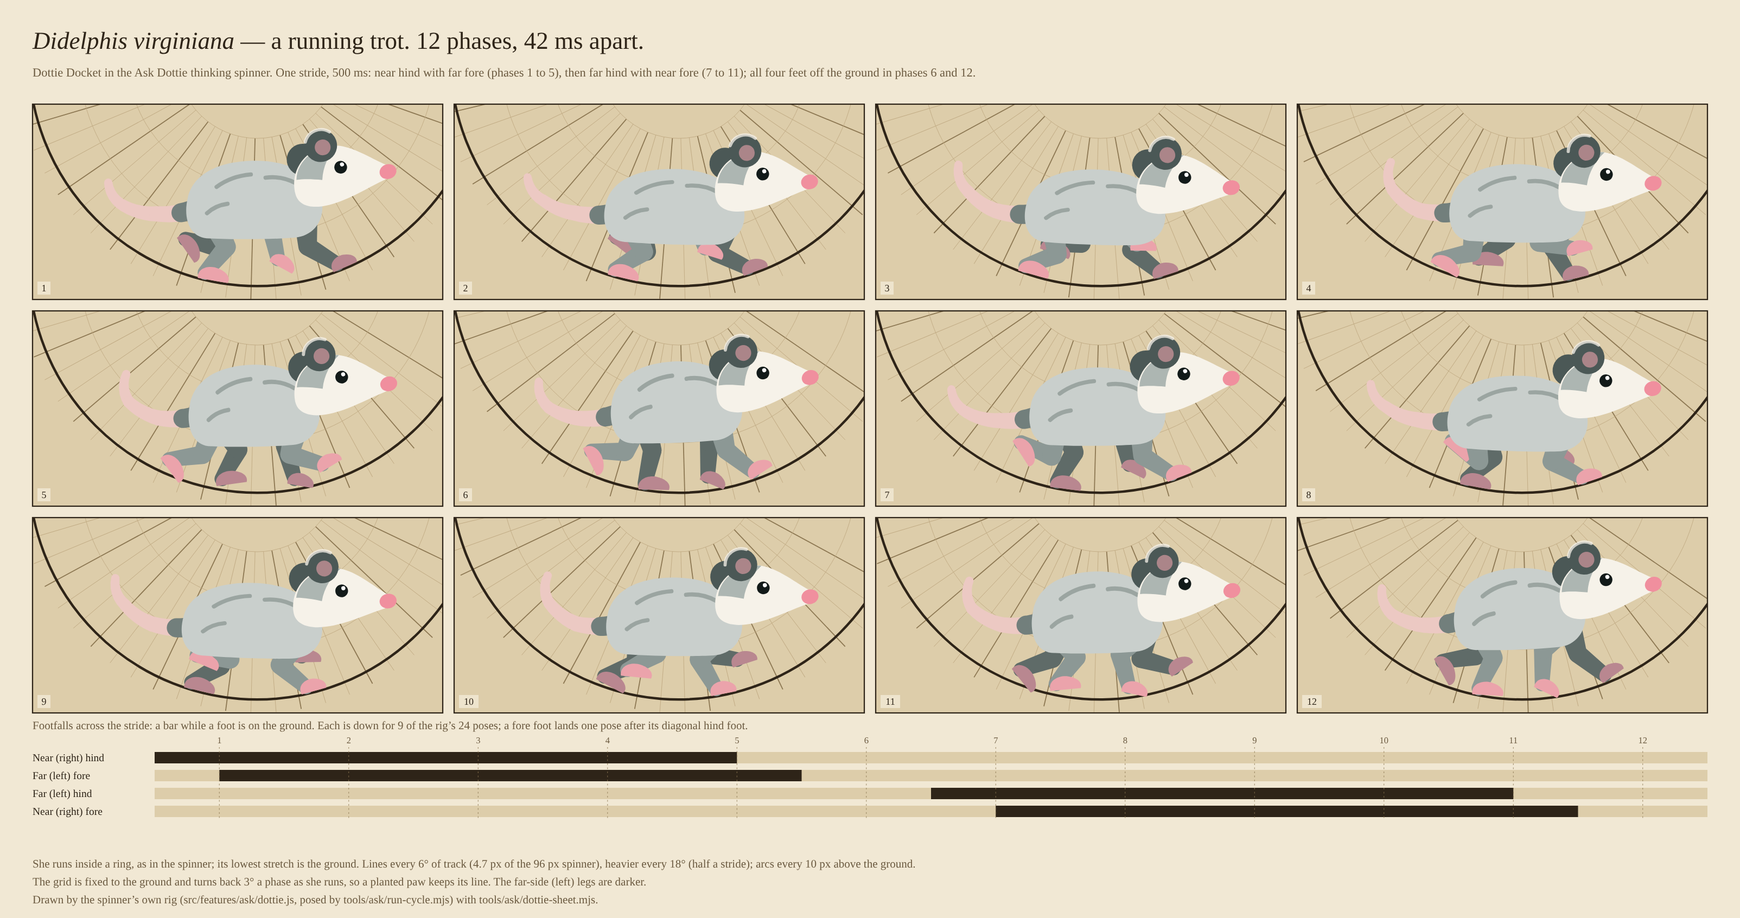
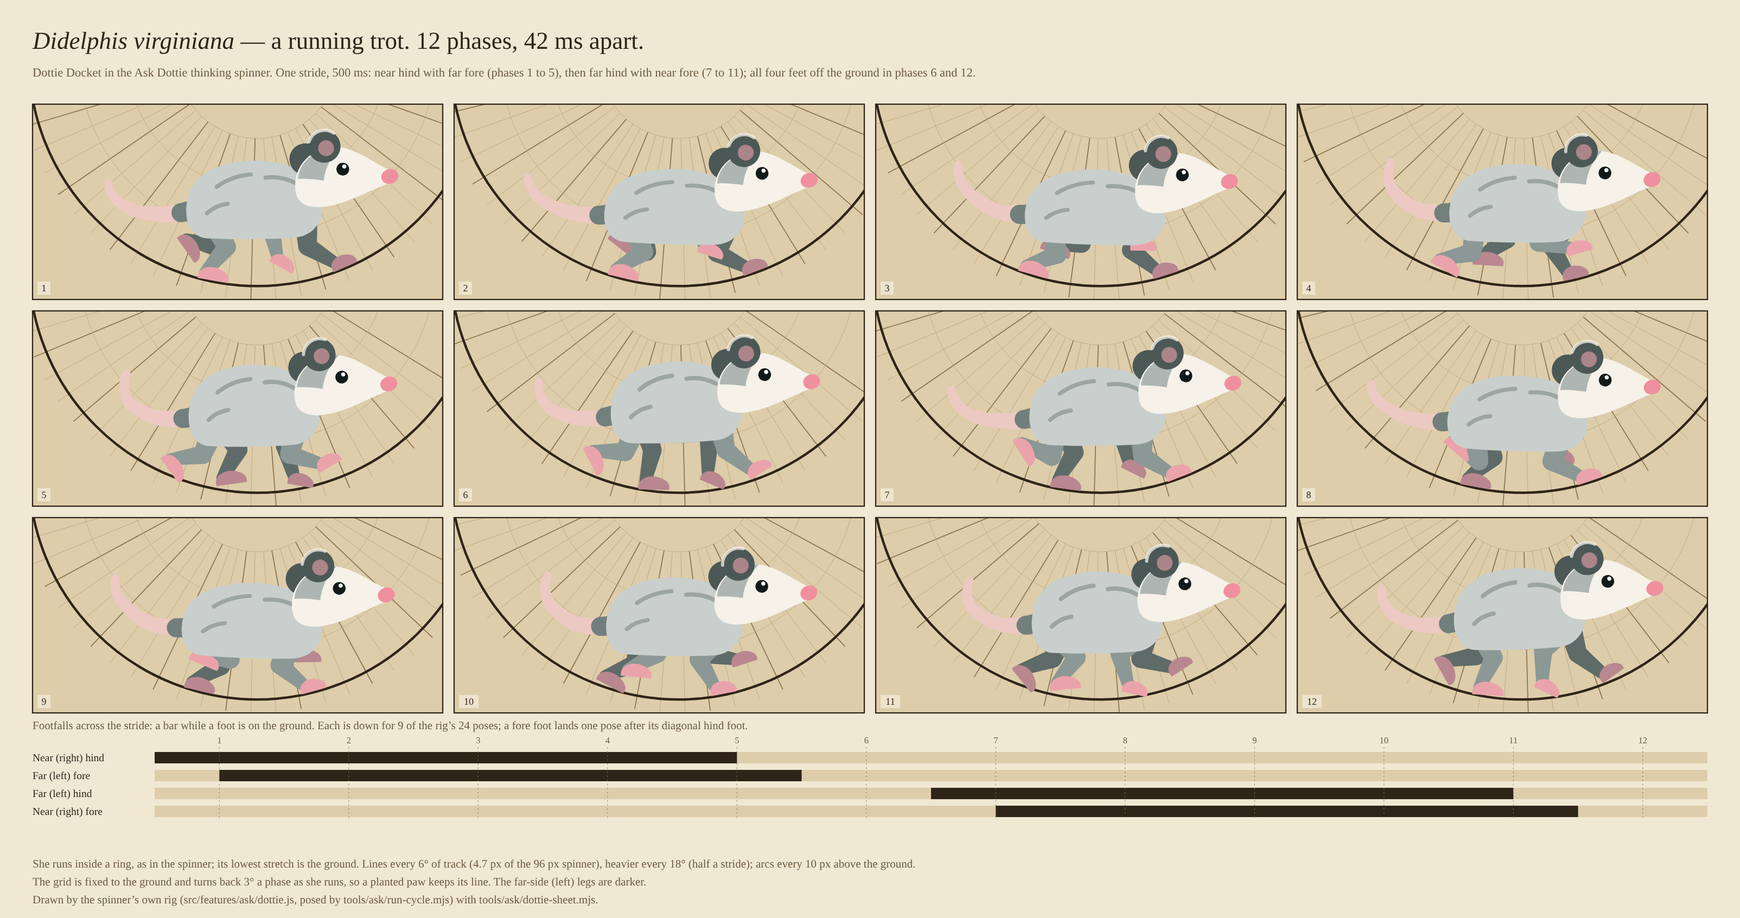
Dottie spinner: a steady head, tapered legs, a tool that films the run, and the mascot notes
The nod now works against the bob, so the nose and eye hold their line. Lower legs
taper to the paw. tools/ask/run-film.mjs takes the 16-frame filmstrip and the real-size
pictures from the browser's own animation; it and the check share one bare page
(spinner-page.mjs). docs/ask-mascot/README.md describes the rig, the generator and
the checks; the running sheet is redrawn.

Claude-Session: https://claude.ai/code/session_014fYW9uUa7KNyY2jpcwk42K

diff --git a/src/features/ask/dottie.js b/src/features/ask/dottie.js
@@ -260,24 +260,24 @@
     ms: 500, keys: 24, strides: 10, ground: 46.5, size: 1,
     feet: {fh:[12,9],ff:[1,9],nh:[0,9],nf:[13,9]},
     parts: [
-      { id: 'fhLower', box: [-3,-9.6,6,12.2], art: '<path d="M-1.5 0.09A1.5 1.5 0 0 0 1.5 0.09L1.9 -6.69A1.9 1.9 0 1 0 -1.9 -6.69Z" fill="{legFar}"/>', still: [12.45,45.2,25.92], k: [22.107,40.948,70.72,21.393,39.907,83.33,20.367,39.177,93.07,19.032,38.882,96.5,17.406,39.053,89.32,15.571,39.643,73.17,13.723,40.649,57.02,11.97,41.918,43.48,10.448,43.243,31.34,9.32,44.405,19.86,8.719,45.063,10.21,8.765,45.22,3.84,9.7,45.2,9.18,11.2,45.2,19.39,12.7,45.2,28.42,14.2,45.2,35.99,15.7,45.2,41.36,17.2,45.2,43.84,18.65,45.102,44.77,19.812,44.607,48.01,20.665,44.015,50.91,21.755,43.76,48.98,22.535,43.18,50.24,22.547,42.126,58.54] },
+      { id: 'fhLower', box: [-3,-9.6,6,12.2], art: '<path d="M-1.19 0.12A1.2 1.2 0 0 0 1.19 0.12L1.89 -6.6A1.9 1.9 0 1 0 -1.89 -6.6Z" fill="{legFar}"/>', still: [12.45,45.2,25.92], k: [22.107,40.948,70.72,21.393,39.907,83.33,20.367,39.177,93.07,19.032,38.882,96.5,17.406,39.053,89.32,15.571,39.643,73.17,13.723,40.649,57.02,11.97,41.918,43.48,10.448,43.243,31.34,9.32,44.405,19.86,8.719,45.063,10.21,8.765,45.22,3.84,9.7,45.2,9.18,11.2,45.2,19.39,12.7,45.2,28.42,14.2,45.2,35.99,15.7,45.2,41.36,17.2,45.2,43.84,18.65,45.102,44.77,19.812,44.607,48.01,20.665,44.015,50.91,21.755,43.76,48.98,22.535,43.18,50.24,22.547,42.126,58.54] },
       { id: 'fhPaw', box: [-6,-4.2,9.2,5.2], art: '<path d="M-4.3 0C-4.8-2.2-2.2-3.1-.4-2.6 1.3-2.2 2.4-1.2 1.9 0Z" fill="{pawFar}"/>', still: [8.645,46.5,0], k: [20.151,43.925,40,19.08,42.767,35.87,17.561,41.828,29.59,15.723,41.251,22.3,13.692,41.107,15.16,11.597,41.395,8.9,9.567,42.052,2.13,7.728,42.964,-4.5,6.209,43.989,-9.89,5.139,44.976,-13,4.644,45.788,-10.34,4.853,46.317,-3.73,5.895,46.5,0,7.395,46.5,0,8.895,46.5,0,10.395,46.5,0,11.895,46.5,0,13.395,46.5,0,14.895,46.5,1.82,16.395,46.5,11.54,17.895,46.5,25,19.395,46.5,32,20.436,46.059,36.44,20.645,45.104,40] },
       { id: 'fhUpper', box: [-3.6,-3.6,7.2,12.9], art: '<path d="M-2.39 0.19A2.4 2.4 0 1 1 2.39 0.19L1.89 6.35A1.9 1.9 0 0 1 -1.89 6.35Z" fill="{legFar}"/>', still: [13.134,33.886,-33.68], k: [12.776,33.032,-0.54,13.003,33.561,-9.04,13.289,34.164,-17.52,13.573,34.664,-28.45,13.793,34.886,-44.3,13.851,34.763,-60.1,13.692,34.474,-66.46,13.399,34.196,-64.59,13.011,33.876,-57.14,12.597,33.528,-46.26,12.34,33.188,-35.79,12.514,32.88,-28.6,12.776,33.032,-30.52,13.003,33.561,-34.1,13.289,34.164,-35.94,13.573,34.664,-35.06,13.793,34.886,-30.6,13.851,34.763,-22.25,13.692,34.474,-12.01,13.399,34.196,-5.07,13.011,33.876,0.56,12.597,33.528,11.06,12.34,33.188,16.19,12.514,32.88,9.37] },
-      { id: 'ffLower', box: [-3,-9.8,6,12.4], art: '<path d="M-1.5 0.09A1.5 1.5 0 0 0 1.5 0.09L1.9 -6.79A1.9 1.9 0 1 0 -1.9 -6.79Z" fill="{legFar}"/>', still: [-9.796,45.209,-3.64], k: [-21.98,45.169,-29.85,-21.046,45.209,-37.86,-19.546,45.209,-43.57,-18.046,45.209,-45.81,-16.546,45.209,-43.23,-15.046,45.209,-36.35,-13.546,45.209,-27.77,-12.091,45.143,-19.3,-10.869,44.813,-12.26,-9.858,44.42,-5.98,-8.653,44.25,3.97,-7.818,43.673,10.34,-7.762,42.574,2.58,-8.226,41.304,-5.38,-9.05,40.131,-9.26,-10.22,39.252,-10.31,-11.686,38.809,-14.3,-13.397,38.858,-31.12,-15.263,39.375,-53.47,-17.106,40.339,-63.66,-18.829,41.596,-62.11,-20.315,42.937,-54.02,-21.413,44.138,-42.14,-22.014,44.89,-29.73] },
+      { id: 'ffLower', box: [-3,-9.8,6,12.4], art: '<path d="M-1.19 0.12A1.2 1.2 0 0 0 1.19 0.12L1.89 -6.71A1.9 1.9 0 1 0 -1.89 -6.71Z" fill="{legFar}"/>', still: [-9.796,45.209,-3.64], k: [-21.98,45.169,-29.85,-21.046,45.209,-37.86,-19.546,45.209,-43.57,-18.046,45.209,-45.81,-16.546,45.209,-43.23,-15.046,45.209,-36.35,-13.546,45.209,-27.77,-12.091,45.143,-19.3,-10.869,44.813,-12.26,-9.858,44.42,-5.98,-8.653,44.25,3.97,-7.818,43.673,10.34,-7.762,42.574,2.58,-8.226,41.304,-5.38,-9.05,40.131,-9.26,-10.22,39.252,-10.31,-11.686,38.809,-14.3,-13.397,38.858,-31.12,-15.263,39.375,-53.47,-17.106,40.339,-63.66,-18.829,41.596,-62.11,-20.315,42.937,-54.02,-21.413,44.138,-42.14,-22.014,44.89,-29.73] },
       { id: 'ffPaw', box: [-5.2,-4,8.2,5], art: '<path d="M-3.5 0C-4-2.1-1.8-2.9-.3-2.5 1.2-2.1 2.2-1.1 1.7 0Z" fill="{pawFar}"/>', still: [-12.713,46.5,0], k: [-25.004,46.304,-3.73,-23.963,46.5,0,-22.463,46.5,0,-20.963,46.5,0,-19.463,46.5,0,-17.963,46.5,0,-16.463,46.5,0,-14.963,46.5,1.59,-13.463,46.5,10.1,-11.963,46.5,21.88,-10.463,46.5,28,-9.421,46.026,32.33,-9.212,45,35.76,-9.707,43.735,36,-10.777,42.49,32.62,-12.296,41.482,27.36,-14.135,40.862,21.14,-16.165,40.707,14.87,-18.26,41.017,9.07,-20.291,41.723,2.42,-22.129,42.702,-4.28,-23.648,43.803,-9.82,-24.719,44.863,-13,-25.213,45.735,-10.34] },
       { id: 'ffUpper', box: [-3.6,-3.6,7.2,12.5], art: '<path d="M-2.39 0.21A2.4 2.4 0 1 1 2.39 0.21L1.89 5.96A1.9 1.9 0 0 1 -1.89 5.96Z" fill="{legFar}"/>', still: [-16.24,34.684,54.75], k: [-17.195,33.537,1.53,-16.825,34.312,12.92,-16.352,35.182,25.62,-15.926,35.891,36.49,-15.697,36.174,45.4,-15.648,35.954,50.97,-15.668,35.505,53.47,-15.769,35.084,55.06,-15.972,34.602,56.66,-16.21,34.097,57.09,-16.544,33.621,53.41,-17.11,33.248,54.69,-17.195,33.537,72.82,-16.825,34.312,93.57,-16.352,35.182,113.07,-15.926,35.891,129.79,-15.697,36.174,137.11,-15.648,35.954,123.11,-15.668,35.505,92.74,-15.769,35.084,66.33,-15.972,34.602,46.09,-16.21,34.097,28.71,-16.544,33.621,12.95,-17.11,33.248,0.83] },
       { id: 'tail3', box: [-7.5,-6.5,10,9], art: '<path d="M0,-1.2L-0.8,-1.21L-1.6,-1.36L-2.38,-1.64L-3.1,-2.05L-3.75,-2.59L-4.31,-3.24A0.85 0.85 0 0 0 -5.75,-2.34L-5.11,-1.38L-4.31,-0.54L-3.37,0.15L-2.32,0.69L-1.19,1.04L0,1.2A1.2 1.2 0 0 0 0,-1.2Z" fill="{tail}"/>', still: [43.326,39.368,-3.33], k: [41.949,40.307,-9.44,42.002,40.802,-14.79,42.589,40.843,-17.7,43.507,40.299,-16.5,44.359,39.407,-12.15,44.833,38.494,-3.13,44.778,37.928,6.43,44.36,37.869,13.19,43.764,38.121,15.49,43.049,38.5,12.79,42.409,38.951,6.17,42.175,39.57,-2.32,41.949,40.307,-9.44,42.002,40.802,-14.79,42.589,40.843,-17.7,43.507,40.299,-16.5,44.359,39.407,-12.15,44.833,38.494,-3.13,44.778,37.928,6.43,44.36,37.869,13.19,43.764,38.121,15.49,43.049,38.5,12.79,42.409,38.951,6.17,42.175,39.57,-2.32] },
       { id: 'tail2', box: [-9.5,-6,12.5,8.5], art: '<path d="M0,-1.55L-1.04,-1.54L-2.07,-1.61L-3.1,-1.78L-4.12,-2.04L-5.12,-2.39L-6.08,-2.83A1.2 1.2 0 0 0 -7.28,-0.75L-6.18,-0.11L-5.02,0.43L-3.82,0.87L-2.57,1.21L-1.3,1.44L0,1.55A1.55 1.55 0 0 0 0,-1.55Z" fill="{tail}"/>', still: [33.309,37.768,-23.31], k: [32.534,37.664,-32.67,32.775,38.019,-34.01,33.293,38.22,-32.55,33.839,38.283,-27.04,34.284,38.191,-20.04,34.477,37.954,-14.28,34.288,37.741,-11.3,33.849,37.638,-11.65,33.305,37.509,-14.83,32.723,37.36,-19.28,32.297,37.286,-23.81,32.395,37.348,-28.76,32.534,37.664,-32.67,32.775,38.019,-34.01,33.293,38.22,-32.55,33.839,38.283,-27.04,34.284,38.191,-20.04,34.477,37.954,-14.28,34.288,37.741,-11.3,33.849,37.638,-11.65,33.305,37.509,-14.83,32.723,37.36,-19.28,32.297,37.286,-23.81,32.395,37.348,-28.76] },
       { id: 'tail1', box: [-10.5,-6,14,9], art: '<path d="M0,-1.9L-1.14,-1.88L-2.28,-1.94L-3.41,-2.08L-4.54,-2.3L-5.66,-2.61L-6.75,-2.98A1.55 1.55 0 0 0 -8.01,-0.15L-6.76,0.42L-5.46,0.9L-4.13,1.29L-2.77,1.59L-1.39,1.79L0,1.9A1.9 1.9 0 0 0 0,-1.9Z" fill="{tail}"/><path d="M0,-2L-0.39,-2L-0.77,-2L-1.16,-2.02L-1.54,-2.04L-1.93,-2.07L-2.31,-2.12A1.95 1.95 0 0 0 -2.87,1.74L-2.39,1.82L-1.92,1.87L-1.44,1.92L-0.96,1.96L-0.48,1.99L0,2A2 2 0 0 0 0,-2Z" fill="{leg}"/>', still: [22.866,33.97,-36.87], k: [22.658,33.208,-43.11,22.855,33.706,-41.77,23.102,34.271,-38.33,23.355,34.746,-34.59,23.569,34.975,-31.75,23.619,34.864,-30.63,23.419,34.557,-31.41,23.076,34.25,-33.17,22.641,33.905,-35.07,22.186,33.529,-37.1,21.951,33.204,-39.43,22.307,33.013,-41.87,22.658,33.208,-43.11,22.855,33.706,-41.77,23.102,34.271,-38.33,23.355,34.746,-34.59,23.569,34.975,-31.75,23.619,34.864,-30.63,23.419,34.557,-31.41,23.076,34.25,-33.17,22.641,33.905,-35.07,22.186,33.529,-37.1,21.951,33.204,-39.43,22.307,33.013,-41.87] },
-      { id: 'nhLower', box: [-3,-9.6,6,12.2], art: '<path d="M-1.5 0.09A1.5 1.5 0 0 0 1.5 0.09L1.9 -6.69A1.9 1.9 0 1 0 -1.9 -6.69Z" fill="{legNear}"/>', still: [22.362,45.2,47.77], k: [12.112,45.2,18.28,13.612,45.2,26.62,15.112,45.2,34.71,16.612,45.2,41.96,18.112,45.2,47.51,19.612,45.2,50.62,21.062,45.102,52.34,22.224,44.607,55.92,23.077,44.015,59.01,24.167,43.76,57.76,24.947,43.18,59.15,24.959,42.126,66.62,24.519,40.948,78.22,23.805,39.907,90.86,22.779,39.177,101.15,21.444,38.882,105.3,19.818,39.053,97.74,17.983,39.643,79.12,16.135,40.649,61.21,14.381,41.918,47.41,12.859,43.243,35.94,11.732,44.405,25.98,11.131,45.063,18.59,11.176,45.22,14.46] },
+      { id: 'nhLower', box: [-3,-9.6,6,12.2], art: '<path d="M-1.19 0.12A1.2 1.2 0 0 0 1.19 0.12L1.89 -6.6A1.9 1.9 0 1 0 -1.89 -6.6Z" fill="{legNear}"/>', still: [22.362,45.2,47.77], k: [12.112,45.2,18.28,13.612,45.2,26.62,15.112,45.2,34.71,16.612,45.2,41.96,18.112,45.2,47.51,19.612,45.2,50.62,21.062,45.102,52.34,22.224,44.607,55.92,23.077,44.015,59.01,24.167,43.76,57.76,24.947,43.18,59.15,24.959,42.126,66.62,24.519,40.948,78.22,23.805,39.907,90.86,22.779,39.177,101.15,21.444,38.882,105.3,19.818,39.053,97.74,17.983,39.643,79.12,16.135,40.649,61.21,14.381,41.918,47.41,12.859,43.243,35.94,11.732,44.405,25.98,11.131,45.063,18.59,11.176,45.22,14.46] },
       { id: 'nhPaw', box: [-6,-4.2,9.2,5.2], art: '<path d="M-4.3 0C-4.8-2.2-2.2-3.1-.4-2.6 1.3-2.2 2.4-1.2 1.9 0Z" fill="{pink}"/>', still: [18.556,46.5,0], k: [8.306,46.5,0,9.806,46.5,0,11.306,46.5,0,12.806,46.5,0,14.306,46.5,0,15.806,46.5,0,17.306,46.5,1.82,18.806,46.5,11.54,20.306,46.5,25,21.806,46.5,32,22.848,46.059,36.44,23.057,45.104,40,22.562,43.925,40,21.492,42.767,35.87,19.973,41.828,29.59,18.134,41.251,22.3,16.104,41.107,15.16,14.009,41.395,8.9,11.978,42.052,2.13,10.14,42.964,-4.5,8.621,43.989,-9.89,7.55,44.976,-13,7.056,45.788,-10.34,7.265,46.317,-3.73] },
       { id: 'nhUpper', box: [-3.6,-3.6,7.2,12.9], art: '<path d="M-2.39 0.19A2.4 2.4 0 1 1 2.39 0.19L1.89 6.35A1.9 1.9 0 0 1 -1.89 6.35Z" fill="{legNear}"/>', still: [15.356,34.74,-0.39], k: [14.993,33.916,-41.12,15.249,34.423,-42.18,15.562,35.001,-42.42,15.866,35.481,-40.46,16.095,35.698,-35.29,16.141,35.582,-26.55,15.949,35.306,-16.04,15.62,35.04,-8.38,15.195,34.734,-2.02,14.743,34.398,8.32,14.469,34.071,13.79,14.685,33.773,8.26,14.993,33.916,-0.17,15.249,34.423,-7.14,15.562,35.001,-14.31,15.866,35.481,-24.54,16.095,35.698,-41.76,16.141,35.582,-61.35,15.949,35.306,-70.33,15.62,35.04,-69.62,15.195,34.734,-63.04,14.743,34.398,-53.54,14.469,34.071,-45.38,14.685,33.773,-40.9] },
-      { id: 'nfLower', box: [-3,-9.8,6,12.4], art: '<path d="M-1.5 0.09A1.5 1.5 0 0 0 1.5 0.09L1.9 -6.79A1.9 1.9 0 1 0 -1.9 -6.79Z" fill="{legNear}"/>', still: [-15.42,45.209,-36.9], k: [-5.386,42.574,0.73,-5.85,41.304,-6.66,-6.674,40.131,-10.31,-7.844,39.252,-11.35,-9.31,38.809,-15.59,-11.021,38.858,-32.93,-12.887,39.375,-55.41,-14.73,40.339,-65.35,-16.454,41.596,-63.64,-17.939,42.937,-55.62,-19.038,44.138,-44.02,-19.638,44.89,-31.96,-19.604,45.169,-31.63,-18.67,45.209,-39.1,-17.17,45.209,-44.54,-15.67,45.209,-46.63,-14.17,45.209,-44.08,-12.67,45.209,-37.35,-11.17,45.209,-28.95,-9.715,45.143,-20.65,-8.493,44.813,-13.8,-7.482,44.42,-7.74,-6.278,44.25,1.57,-5.442,43.673,7.41] },
+      { id: 'nfLower', box: [-3,-9.8,6,12.4], art: '<path d="M-1.19 0.12A1.2 1.2 0 0 0 1.19 0.12L1.89 -6.71A1.9 1.9 0 1 0 -1.89 -6.71Z" fill="{legNear}"/>', still: [-15.42,45.209,-36.9], k: [-5.386,42.574,0.73,-5.85,41.304,-6.66,-6.674,40.131,-10.31,-7.844,39.252,-11.35,-9.31,38.809,-15.59,-11.021,38.858,-32.93,-12.887,39.375,-55.41,-14.73,40.339,-65.35,-16.454,41.596,-63.64,-17.939,42.937,-55.62,-19.038,44.138,-44.02,-19.638,44.89,-31.96,-19.604,45.169,-31.63,-18.67,45.209,-39.1,-17.17,45.209,-44.54,-15.67,45.209,-46.63,-14.17,45.209,-44.08,-12.67,45.209,-37.35,-11.17,45.209,-28.95,-9.715,45.143,-20.65,-8.493,44.813,-13.8,-7.482,44.42,-7.74,-6.278,44.25,1.57,-5.442,43.673,7.41] },
       { id: 'nfPaw', box: [-5.2,-4,8.2,5], art: '<path d="M-3.5 0C-4-2.1-1.8-2.9-.3-2.5 1.2-2.1 2.2-1.1 1.7 0Z" fill="{pink}"/>', still: [-18.337,46.5,0], k: [-6.836,45,35.76,-7.331,43.735,36,-8.401,42.49,32.62,-9.92,41.482,27.36,-11.759,40.862,21.14,-13.789,40.707,14.87,-15.884,41.017,9.07,-17.915,41.723,2.42,-19.753,42.702,-4.28,-21.272,43.803,-9.82,-22.343,44.863,-13,-22.837,45.735,-10.34,-22.628,46.304,-3.73,-21.587,46.5,0,-20.087,46.5,0,-18.587,46.5,0,-17.087,46.5,0,-15.587,46.5,0,-14.087,46.5,0,-12.587,46.5,1.59,-11.087,46.5,10.1,-9.587,46.5,21.88,-8.087,46.5,28,-7.045,46.026,32.33] },
       { id: 'nfUpper', box: [-3.6,-3.6,7.2,12.5], art: '<path d="M-2.39 0.21A2.4 2.4 0 1 1 2.39 0.21L1.89 5.96A1.9 1.9 0 0 1 -1.89 5.96Z" fill="{legNear}"/>', still: [-13.637,34.78,30.06], k: [-14.529,33.662,74.25,-14.183,34.402,94.26,-13.738,35.236,113.34,-13.335,35.915,129.74,-13.111,36.186,136.64,-13.057,35.979,121.92,-13.079,35.561,91.21,-13.186,35.171,65.07,-13.396,34.724,45.24,-13.639,34.252,28.32,-13.961,33.796,13.04,-14.465,33.407,1.16,-14.529,33.662,1.27,-14.183,34.402,12.14,-13.738,35.236,24.65,-13.335,35.915,35.43,-13.111,36.186,44.35,-13.057,35.979,50.17,-13.079,35.561,53.17,-13.186,35.171,55.35,-13.396,34.724,57.59,-13.639,34.252,58.68,-13.961,33.796,55.96,-14.465,33.407,57.61] },
       { id: 'body', box: [-17,-10,32.5,20.5], art: '<path d="M-9.8 7.8C-13.8 7.9-15.4 3.9-14.3-.6-13-6.2-6.6-8.3.2-8.1 6.2-7.9 11.6-5.4 12.9-.4 13.9 3.8 11.6 7.5 7.4 7.8 3 8.1-5 8.1-9.8 7.8Z" fill="{fur}"/><path d="M-8.4-2.8c2.2-1.6 4.4-2.3 7-2.5M1.6-4.6c2.3-.3 4.4.2 6.2 1.2M-10.4 2.6c1.2-1.1 2.6-1.7 4.2-1.9" fill="none" stroke="{shade}" stroke-width=".85" stroke-linecap="round"/>', still: [0,29.5,0], k: [-0.428,28.46,-1.17,-0.301,29.151,-0.21,-0.094,29.933,0.8,0.139,30.576,1.55,0.334,30.849,1.75,0.44,30.665,1.41,0.428,30.259,0.86,0.301,29.869,0.35,0.094,29.426,-0.24,-0.139,28.956,-0.85,-0.334,28.523,-1.41,-0.44,28.204,-1.7,-0.428,28.46,-1.17,-0.301,29.151,-0.21,-0.094,29.933,0.8,0.139,30.576,1.55,0.334,30.849,1.75,0.44,30.665,1.41,0.428,30.259,0.86,0.301,29.869,0.35,0.094,29.426,-0.24,-0.139,28.956,-0.85,-0.334,28.523,-1.41,-0.44,28.204,-1.7], s: [0.9895,1.0125,1.0046,0.9945,1.0209,0.9752,1.0345,0.9589,1.0418,0.9502,1.0367,0.9563,1.0207,0.9754,1.0036,0.9957,0.9855,1.0173,0.9671,1.0392,0.9577,1.0503,0.9717,1.0337,0.9895,1.0125,1.0046,0.9945,1.0209,0.9752,1.0345,0.9589,1.0418,0.9502,1.0367,0.9563,1.0207,0.9754,1.0036,0.9957,0.9855,1.0173,0.9671,1.0392,0.9577,1.0503,0.9717,1.0337] },
-      { id: 'head', box: [-4,-15,24,18.5], art: '<g transform="scale(.54) translate(-82 -50)"><circle cx="84.4" cy="34" r="6" fill="{ear}"/><path d="M77.4 45.4C78.6 34.4 89.6 29.6 98.4 33.4c5.8 2.6 10 8.4 15 13.2 2 2 1.2 5-1.8 5.2-7.6.6-15.4 2.6-23.4 1.8-6.6-.6-11.2-3.4-10.8-8.2Z" fill="{face}"/><path d="M79.6 40.4C82.4 33.2 91.6 30.8 98.4 33.4c-4 2.2-7.6 5.6-9.6 10.4-3.4-1.6-6.4-2.8-9.2-3.4Z" fill="{cap}"/></g><circle cx="8.1" cy="-4.5" r="1.3" fill="{eye}"/><circle cx="8.55" cy="-4.95" r=".42" fill="#fff"/><ellipse cx="16.9" cy="-.35" rx="1.75" ry="1.5" fill="{nose}"/>', still: [-19.86,31.791,3], k: [-20.965,31.19,0.28,-20.558,31.42,0.54,-19.93,31.775,1.92,-19.296,32.129,3.6,-18.841,32.376,5.09,-18.736,32.412,5.88,-18.95,32.268,5.65,-19.301,32.07,4.82,-19.675,31.885,3.96,-20.112,31.667,3.04,-20.528,31.451,2.03,-20.873,31.255,1.08,-20.965,31.19,0.28,-20.558,31.42,0.54,-19.93,31.775,1.92,-19.296,32.129,3.6,-18.841,32.376,5.09,-18.736,32.412,5.88,-18.95,32.268,5.65,-19.301,32.07,4.82,-19.675,31.885,3.96,-20.112,31.667,3.04,-20.528,31.451,2.03,-20.873,31.255,1.08] },
-      { id: 'ear', box: [-4,-7.5,8.5,9], art: '<g transform="scale(.54) translate(-91 -36.5)"><circle cx="92" cy="31.2" r="6.2" fill="{ear}"/><path d="M86.6 28.6a6.2 6.2 0 0 1 9.8-1.8" fill="none" stroke="{face}" stroke-width="1.2" stroke-linecap="round" opacity=".75"/><circle cx="92.6" cy="32" r="3" fill="{pink}" opacity=".6"/></g>', still: [-31.795,25.312,14.94], k: [-32.531,24.42,15.52,-32.08,24.673,19.45,-31.622,25.174,24.2,-31.211,25.713,25.35,-30.964,26.128,21.71,-31.007,26.258,16.04,-31.24,26.09,9.93,-31.509,25.798,5.77,-31.783,25.516,5.58,-32.115,25.196,7.75,-32.397,24.869,9.99,-32.606,24.572,12.49,-32.531,24.42,15.52,-32.08,24.673,19.45,-31.622,25.174,24.2,-31.211,25.713,25.35,-30.964,26.128,21.71,-31.007,26.258,16.04,-31.24,26.09,9.93,-31.509,25.798,5.77,-31.783,25.516,5.58,-32.115,25.196,7.75,-32.397,24.869,9.99,-32.606,24.572,12.49] },
+      { id: 'head', box: [-4,-15,24,18.5], art: '<g transform="scale(.54) translate(-82 -50)"><circle cx="84.4" cy="34" r="6" fill="{ear}"/><path d="M77.4 45.4C78.6 34.4 89.6 29.6 98.4 33.4c5.8 2.6 10 8.4 15 13.2 2 2 1.2 5-1.8 5.2-7.6.6-15.4 2.6-23.4 1.8-6.6-.6-11.2-3.4-10.8-8.2Z" fill="{face}"/><path d="M79.6 40.4C82.4 33.2 91.6 30.8 98.4 33.4c-4 2.2-7.6 5.6-9.6 10.4-3.4-1.6-6.4-2.8-9.2-3.4Z" fill="{cap}"/></g><circle cx="8.1" cy="-4.5" r="1.3" fill="{eye}"/><circle cx="8.55" cy="-4.95" r=".42" fill="#fff"/><ellipse cx="16.9" cy="-.35" rx="1.75" ry="1.5" fill="{nose}"/>', still: [-19.86,31.791,3], k: [-20.965,31.19,4.5,-20.558,31.42,4.17,-19.93,31.775,3.37,-19.296,32.129,2.47,-18.841,32.376,1.74,-18.736,32.412,1.44,-18.95,32.268,1.67,-19.301,32.07,2.14,-19.675,31.885,2.59,-20.112,31.667,3.11,-20.528,31.451,3.65,-20.873,31.255,4.15,-20.965,31.19,4.5,-20.558,31.42,4.17,-19.93,31.775,3.37,-19.296,32.129,2.47,-18.841,32.376,1.74,-18.736,32.412,1.44,-18.95,32.268,1.67,-19.301,32.07,2.14,-19.675,31.885,2.59,-20.112,31.667,3.11,-20.528,31.451,3.65,-20.873,31.255,4.15] },
+      { id: 'ear', box: [-4,-7.5,8.5,9], art: '<g transform="scale(.54) translate(-91 -36.5)"><circle cx="92" cy="31.2" r="6.2" fill="{ear}"/><path d="M86.6 28.6a6.2 6.2 0 0 1 9.8-1.8" fill="none" stroke="{face}" stroke-width="1.2" stroke-linecap="round" opacity=".75"/><circle cx="92.6" cy="32" r="3" fill="{pink}" opacity=".6"/></g>', still: [-31.795,25.312,14.94], k: [-33.531,24.9,20.73,-32.937,25.086,23.94,-31.957,25.339,25.98,-30.953,25.583,23.96,-30.219,25.742,17.61,-30.03,25.745,10.63,-30.361,25.63,5.08,-30.91,25.489,2.5,-31.473,25.358,3.9,-32.13,25.203,7.83,-32.773,25.056,11.98,-33.327,24.922,16.28,-33.531,24.9,20.73,-32.937,25.086,23.94,-31.957,25.339,25.98,-30.953,25.583,23.96,-30.219,25.742,17.61,-30.03,25.745,10.63,-30.361,25.63,5.08,-30.91,25.489,2.5,-31.473,25.358,3.9,-32.13,25.203,7.83,-32.773,25.056,11.98,-33.327,24.922,16.28] },
     ],
   };
   /* run-cycle:end */
@@ -473,7 +473,6 @@
           const starting = this.running;
           starting[0].onfinish = () =>
             this.running === starting && this.laps(starting[0].startTime + START_MS);
-          this.classList.add('is-running');
         }
         // The laps: one endless animation per part, all counted from the same instant.
         laps(from) {
@@ -549,7 +548,6 @@
           for (const animation of this.running ?? []) animation.cancel();
           this.running = this.cast = null;
           this.held = false;
-          this.classList.remove('is-running');
         }
         // Pause every animation at the same instant (setting the time makes the pause immediate).
         hold() {

diff --git a/docs/ask-mascot/README.md b/docs/ask-mascot/README.md
@@ -3,15 +3,34 @@
 A docket is the list of cases a court carries. Dottie carries hers on her back.
 
 - **Artwork:** `src/features/ask/dottie.js`, inline SVG drawn in code (about
-  10 KB before compression, no image requests, works offline).
+  15 KB compressed, the run's table of poses included; no image requests, works offline).
 - **Sprite sheet:** `dottie-sprite-sheet.svg` / `.png` and one file per pose in
   `poses/`, all generated from the artwork above:
   `node tools/ask/dottie-sheet.mjs --png`. Regenerate after changing a pose.
-- **Trotting sheet:** `possum-trot.svg` / `.png`, the thinking spinner's 8-frame
-  running trot (90 ms a frame) laid out as a Muybridge plate, drawn by the same
-  script from the spinner's own frames (`TROT` in `dottie.js`). One grid square is
-  one pixel of the 56 px spinner. The ring in `ask.css` turns once in 7 strides
-  (5.04 s) so the planted feet do not slide.
+- **The run** (the thinking spinner): three opossums run laps nose to tail inside a ring round
+  her question-mark tail, anticlockwise like runners on a track, so the one at the bottom is
+  upright and heading right. 96 px (80 px on a phone); a lap takes 5 s and 10 strides.
+  - It is a rig, not drawn frames: each opossum is 18 small pictures (body, head, ear, three tail
+    pieces, four legs of upper leg, lower leg and paw), each turning about its joint.
+    `tools/ask/run-cycle.mjs` holds the rig, the artwork and the gait (a running trot: diagonal
+    pairs, each foot down for 9 of 24 poses, a moment in the air in each half stride; body bob,
+    squash and stretch, a steady head, the ear and tail following late), solves the legs and
+    writes the table of 24 poses a stride into `dottie.js` (the block marked `run-cycle`).
+    After changing the generator: `node tools/ask/run-cycle.mjs`, then the sheet below. Never
+    edit the table by hand (`--check` and the browser check refuse it).
+  - `dottie.js` gives the table to the browser's animation engine (Web Animations, transform
+    only), so the compositor draws every frame at the screen's refresh rate and no script runs
+    while she does. A planted paw stays on its spot on the screen: the ring turns one stride of
+    angle in one stride of time.
+  - She starts from a standstill (the first stride takes 750 ms), and when she is sent away a
+    copy slows and fades for 300 ms. Hidden tab: paused. Dialog closed or spinner off the page:
+    nothing running. Reduced motion: the three stand on all four paws and the spinner pulses.
+  - Pictures of the real animation: `node tools/ask/run-film.mjs` (a 16-frame filmstrip at 8x,
+    and the spinner at 1x, 2x and 4x). Check: `tools/ask/trot-browser.mjs` (add `--source` to
+    run it on the source files without a build).
+- **Running sheet:** `possum-trot.svg` / `.png`, one stride as a Muybridge plate (12 phases,
+  42 ms apart, over a measured ground that is fixed to the track) with a footfall diagram, drawn
+  by the same script from the spinner's own rig (`DKLADottie.run.frame`).
 - **Where she appears** (`src/features/ask/ask.js`, `setDottie`): one place at a
   time, beside the line that describes the current state. Each state has a
   pool of poses and she picks one at random, never the same pose twice running.
@@ -21,7 +40,7 @@ A docket is the list of cases a court carries. Dottie carries hers on her back.
 | Always | dangle: hanging by her tail from the top bar's bottom edge | under the "Ask Dottie" button (wide windows); alone near the right (narrow windows and phones), hidden while a reading panel or SCOTUS History is open |
 | "Ask Dottie" in search results | face | the launcher row |
 | Empty dialog | curious, bookmark (0 to 3 joeys), hanging, carrying | beside "Try a question" |
-| Researching | reading, rummaging, fetching; a new one every 4.5 s (not with reduced motion) | the status line |
+| Researching | the spinner: three opossums running laps round her question-mark tail (standing, with a slow pulse, under reduced motion) | the status line |
 | Answer with sources | carrying or bookmark: one joey per cited source, up to three | rises from behind the Sources list once it is in view |
 | No answer, offline, busy, allowance reached, unavailable, failed | possum (always) | the status line |
 | Canceled, or an answer with no cited sources | absent | |
@@ -65,4 +84,5 @@ it. She is decorative (`aria-hidden`); every state is still announced by the
 status line. With reduced motion she appears in place without moving.
 
 Checked by `tools/ask/browser.mjs` (step "Ask DKLA questions and source links"; the feature is still called Ask DKLA in code and file names)
-and breakages 1 and 2 in `tools/verify/break.mjs` (2: saving stops persisting).
+and `tools/ask/trot-browser.mjs` (step "Ask Dottie trotting opossums": the run), with breakages
+in `tools/verify/break.mjs` (search it for "Ask Dottie").
